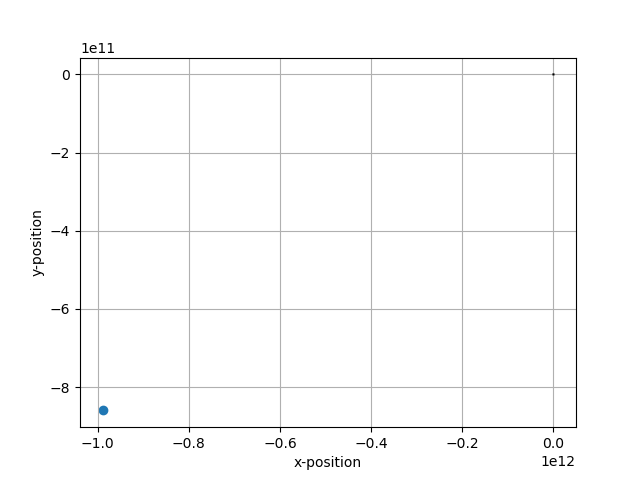
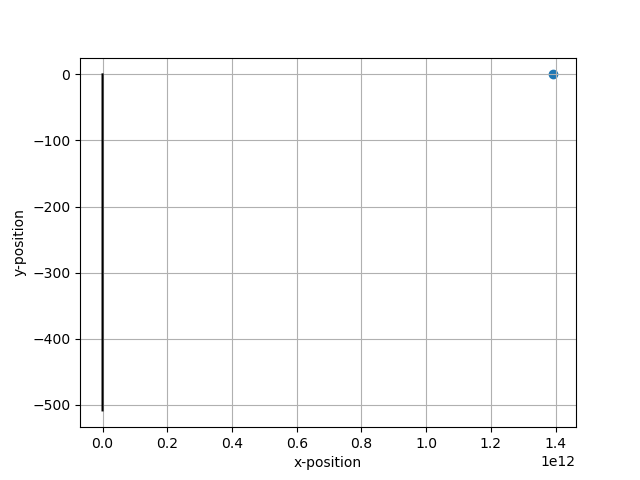
Minor advancements on interplanetary travel

diff --git a/Project/Part 5/Python Files/Part_5_C.py b/Project/Part 5/Python Files/Part_5_C.py
@@ -29,6 +29,8 @@ def find_orbit_inj_velocity(planet_idx, dist):
 def interplanetary_travel(r0, v0, t0, t1_approx, dt, max_dev, dest_planet_idx, dest_planet_orbit, reference_traj, reference_vel, l):
     inter_trav = mission.begin_interplanetary_travel()
     t, r, v = inter_trav.orient()  # Orienting ourselves after launch
+    plt.scatter(r[0], r[1])
+    plt.show()
     distance = mission.measure_distances()[dest_planet_idx]
     dest_planet_mass = system.masses[dest_planet_idx]
 
@@ -42,14 +44,16 @@ def interplanetary_travel(r0, v0, t0, t1_approx, dt, max_dev, dest_planet_idx, d
     print(inter_trav.orient()[2])
 
     # Coasting until we are close enough to planet
-    coast_time = 0.001
+    coast_time = 0.00001
     while distance > l:
         inter_trav.coast(coast_time)
         t_curr, r_curr, v_curr = inter_trav.orient()
-        if abs(reference_traj[t_curr/dt] - r_curr) > max_dev:
-            v_curr_abs = np.lialg.norm(v_curr)
-            heading = np.arccos(v_curr[0]/v_curr_abs)
-            v_req1 = find_velocity_for_trajectory(r_curr, t_curr, t1_approx, dt, heading, 0.001 * np.pi / 180, v_curr_abs, 0.001, dest_planet_orbit, dest_planet_mass, t_curr/dt, t1_approx/dt)
+        if np.linalg.norm(reference_traj[int((t_curr-t0)/dt)] - r_curr) > max_dev:
+            v_curr_abs = np.linalg.norm(v_curr)
+            heading = np.arctan(v_curr[1]/v_curr[0]) + np.pi
+            v_req1 = find_velocity_for_trajectory(r_curr, t_curr, t1_approx, dt, heading, 10 * np.pi / 180, v_curr_abs, 0.001, dest_planet_orbit, dest_planet_mass, int(t_curr/dt), int(t1_approx/dt))
+            print(heading / np.pi * 180)
+            print(v_curr)
             delta_v1 = v_req1-v_curr
             inter_trav.boost(delta_v1)
 
@@ -77,7 +81,7 @@ if __name__ == "__main__":
     launch_planet_idx = 0  # Defining launch and destination planet
     dest_planet_idx = 1
     dest_planet_mass = system.masses[dest_planet_idx]
-    launch_angle = 180
+    launch_angle = 260.483012
 
     with np.load("../../Part 2/Python Code/planet_trajectories.npz") as file:  # Loading Orbits from earlier simulations
         time = file['times']
@@ -86,44 +90,44 @@ if __name__ == "__main__":
     dest_planet_orbit = np.transpose(planet_positions[:, dest_planet_idx, :])  # Creating orbits for the planets
 
 
-    min_dist_planets, time_index00 = find_closest_orbit(launch_planet_orbit, dest_planet_orbit)  # Calculating min distance between planets, best time for launch and estimated time for reaching destination
+    min_dist_planets, time_index0 = find_closest_orbit(launch_planet_orbit, dest_planet_orbit)  # Calculating min distance between planets, best time for launch and estimated time for reaching destination
     dt = time[1]  # Defining time of launch and an approximation when we will be reaching our destination
-    time_index1 = int(time_index00 + 5 / dt)
+    time_index1 = int(time_index0 + (3 / dt))
     t1_approx = time_index1 * dt
-    t00 = time_index00 * dt
+    t0 = time_index0 * dt
 
 
     # Launching spacecraft to find position, velocity and time after the launch + Verifying launch results and orientation
-    r0, v01, t0 = launch_rocket(mission.spacecraft_mass, 392_000, 6_000_000, t_orbit_launch=t00, launch_angle=launch_angle, printing=False, store=True)
-    shortcut.place_spacecraft_on_escape_trajectory(6_000_000, 273.73826154189527, t00, 0, launch_angle, 392_000)
+    # launch_rocket(mission.spacecraft_mass, 392_000, 6_000_000, t_orbit_launch=t0, launch_angle=launch_angle, printing=False, store=True)
+    shortcut.place_spacecraft_on_escape_trajectory(6_000_000, 273.73826154189527, t0, 3_000_000, launch_angle, 392_000)
+    fuel_consumed, t0, r0, v0 = shortcut.get_launch_results()
     mission.verify_launch_result(r0)
-    mission.verify_manual_orientation(r0, v01, 37.01285168461271)
-    fuel_consumed, time_after_launch, pos_after_launch, vel_after_launch = shortcut.get_launch_results()
+    mission.verify_manual_orientation(r0, v0, 37.01285168461271)
+    print(f"EXIT VELOCITY: {np.linalg.norm(v0)}, {v0}")
 
-    # Determining time index after launch
-    time_index0 = int(t0/dt)
 
     # Plotting orbits of planets and trajectory of spacecraft during simulated travel to destination
-    plt.plot(launch_planet_orbit[time_index0:(time_index1 - 1), 0],
-             launch_planet_orbit[time_index0:(time_index1 - 1), 1])
-    plt.scatter(launch_planet_orbit[time_index0, 0], launch_planet_orbit[time_index0, 1], c="r")
-    plt.scatter(launch_planet_orbit[time_index1, 0], launch_planet_orbit[time_index1, 1], c="k")
-    plt.plot(dest_planet_orbit[time_index0:(time_index1 - 1), 0], dest_planet_orbit[time_index0:(time_index1 - 1), 1])
-    plt.scatter(dest_planet_orbit[time_index0, 0], dest_planet_orbit[time_index0, 1], c="r")
-    plt.scatter(dest_planet_orbit[time_index1, 0], dest_planet_orbit[time_index1, 1], c="k")
+    # plt.plot(launch_planet_orbit[time_index0:(time_index1 - 1), 0], launch_planet_orbit[time_index0:(time_index1 - 1), 1])
+    plt.plot(launch_planet_orbit[time_index0:(time_index0 + 100), 0], launch_planet_orbit[time_index0:(time_index0 + 100), 1])
+    # plt.scatter(launch_planet_orbit[time_index0, 0], launch_planet_orbit[time_index0, 1], c="r")
+    # plt.scatter(launch_planet_orbit[time_index1, 0], launch_planet_orbit[time_index1, 1], c="k")
+    # plt.plot(dest_planet_orbit[time_index0:(time_index1 - 1), 0], dest_planet_orbit[time_index0:(time_index1 - 1), 1])
+    # plt.plot(dest_planet_orbit[time_index0:(time_index0 + 5000), 0], dest_planet_orbit[time_index0:(time_index0 + 5000), 1])
+    # plt.scatter(dest_planet_orbit[time_index0, 0], dest_planet_orbit[time_index0, 1], c="r")
+    # plt.scatter(dest_planet_orbit[time_index1, 0], dest_planet_orbit[time_index1, 1], c="k")
 
-    reference_traj, reference_vel = find_velocity_for_trajectory(r0, t0, t1_approx, dt, (222.774515 * np.pi / 180), (0.00001 * np.pi / 180), 6.87, 0.000001, dest_planet_orbit, dest_planet_mass, time_index0, time_index1)
+    reference_traj, reference_vel = find_velocity_for_trajectory(r0, t0, t1_approx, dt, (launch_angle * np.pi / 180), (0.00001 * np.pi / 180), np.linalg.norm(v0), 0.000001, dest_planet_orbit, dest_planet_mass, time_index0, time_index1)
 
     plt.axis("equal")
-    plt.show()
+    # plt.show()
 
     # Defining some variables for interplanetary travel
-    max_deviation = 0.1
+    max_deviation = 0.0001
     dest_planet_idx = 1
     l = 1
 
     # Starting interplanetary travel
-    interplanetary_travel(r0, v01, t0, t1_approx, dt, max_deviation, dest_planet_idx, dest_planet_orbit, reference_traj, reference_vel, l)
+    interplanetary_travel(r0, v0, t0, t1_approx, dt, max_deviation, dest_planet_idx, dest_planet_orbit, reference_traj, reference_vel, l)
 
     BB = ti.time()
     print(BB-AA)

diff --git a/Project/Part 5/Python Files/Part_5_B_func.py b/Project/Part 5/Python Files/Part_5_B_func.py
@@ -40,7 +40,7 @@ def find_closest_orbit(planet_trajectory1, planet_trajectory2):
     for i in range(1, len(dist_arr)):
         if np.linalg.norm(dist_arr[i]) < least_value:
             least_value = np.linalg.norm(dist_arr[i])
-            idx = i
+            idx = i + 5000
     return dist_arr[idx], idx
 
 
@@ -70,6 +70,7 @@ def check_close_enough(sc_traj, planet_traj, planet_mass, time_index0, time_inde
     print("Distance")
     print(min_distance, close_enough)
     plt.plot(sc_traj[:10000, 0], sc_traj[:10000, 1], c="k")
+    plt.scatter(sc_traj[index-time_index0, 0], sc_traj[index-time_index0, 1])
     plt.scatter(planet_traj[index, 0], planet_traj[index, 1])
 
     return close_enough, index, min_distance
@@ -81,8 +82,8 @@ def find_velocity_for_trajectory(r0, t0, t1, dt, median_angle, angle_span, media
     # angle_span = 0.001 * np.pi / 180
     # median_velocity = 5.12745  # Absolute value!
     # velocity_span = 0.0001
-    angles = np.linspace(median_angle - angle_span, median_angle + angle_span, 5)  # Creating arrays with different angles and velocities to iterate over and test
-    velocities = np.linspace(median_velocity - velocity_span, median_velocity + velocity_span, 3)
+    angles = np.linspace(median_angle - angle_span, median_angle + angle_span, 11)  # Creating arrays with different angles and velocities to iterate over and test
+    velocities = np.linspace(median_velocity - velocity_span, median_velocity + velocity_span, 1)
 
     good_vel_ang = []
 
@@ -129,30 +130,37 @@ if __name__ == "__main__":
     launch_planet_orbit = np.transpose(planet_positions[:, launch_planet_idx, :])
     dest_planet_orbit = np.transpose(planet_positions[:, dest_planet_idx, :])  # Creating orbits for the planets
 
-    median_angle = 222.774515 * np.pi / 180  # Setting Middle, max and min values for angles and velocities
-    angle_span = 0.00001 * np.pi / 180
-    median_velocity = 6.87  # Absolute value!
-    velocity_span = 0.001
-    launch_angle = 180
-
-    min_dist_planets, time_index00 = find_closest_orbit(launch_planet_orbit, dest_planet_orbit)  # Calculating min distance between planets, best time for launch and estimated time for reaching destination
+    min_dist_planets, time_index0 = find_closest_orbit(launch_planet_orbit, dest_planet_orbit)  # Calculating min distance between planets, best time for launch and estimated time for reaching destination
     dt = time[1]
-    time_index1 = int(time_index00 + 5 / dt)
-    t00 = time_index00 * dt
-
-    r0, v01, total_time = launch_rocket(mission.spacecraft_mass, 392_000, 6_000_000, t_orbit_launch=t00, launch_angle=launch_angle, printing=False, store=False)
-
-    time_index0 = int(total_time/dt)
+    t0 = time_index0 * dt
+    time_index1 = int(time_index0 + 3 / dt)
     t1 = time_index1 * dt
 
-    plt.plot(launch_planet_orbit[time_index0:(time_index1 - 1), 0], launch_planet_orbit[time_index0:(time_index1 - 1), 1])
-    plt.scatter(launch_planet_orbit[time_index0, 0], launch_planet_orbit[time_index0, 1], c="r")
-    plt.scatter(launch_planet_orbit[time_index1, 0], launch_planet_orbit[time_index1, 1], c="k")
-    plt.plot(dest_planet_orbit[time_index0:(time_index1 - 1), 0], dest_planet_orbit[time_index0:(time_index1 - 1), 1])
-    plt.scatter(dest_planet_orbit[time_index0, 0], dest_planet_orbit[time_index0, 1], c="r")
-    plt.scatter(dest_planet_orbit[time_index1, 0], dest_planet_orbit[time_index1, 1], c="k")
+    launch_angle = 280
+    r0, v0, t0 = launch_rocket(mission.spacecraft_mass, 392_000, 6_000_000, t_orbit_launch=t0, launch_angle=launch_angle, printing=False, store=False)
 
-    find_velocity_for_trajectory(r0, total_time, t1, dt, median_angle, angle_span, median_velocity, velocity_span, dest_planet_orbit, dest_planet_mass, time_index0, time_index1)
+    exit_vel_angle = np.arctan(v0[1]/v0[0])
+
+    median_angle = exit_vel_angle * np.pi / 180  # Setting Middle, max and min values for angles and velocities
+    angle_span = 1 * np.pi / 180
+    # median_velocity = 7.3  # Absolute value!
+    median_velocity = np.linalg.norm(v0)
+    velocity_span = 1e-25
+    print(v0)
+    print((exit_vel_angle/np.pi*180) + 360)
+
+
+
+    # plt.plot(launch_planet_orbit[time_index0:(time_index1 - 1), 0], launch_planet_orbit[time_index0:(time_index1 - 1), 1])
+    plt.plot(launch_planet_orbit[time_index0:(time_index0 + 5_000), 0], launch_planet_orbit[time_index0:(time_index0 + 5_000), 1])
+    plt.scatter(launch_planet_orbit[time_index0, 0], launch_planet_orbit[time_index0, 1], c="r")
+    # plt.scatter(launch_planet_orbit[time_index1, 0], launch_planet_orbit[time_index1, 1], c="k")
+    # plt.plot(dest_planet_orbit[time_index0:(time_index1 - 1), 0], dest_planet_orbit[time_index0:(time_index1 - 1), 1])
+    plt.plot(dest_planet_orbit[(time_index0 + 5000):(time_index0 + 10000), 0], dest_planet_orbit[(time_index0 + 5000):(time_index0 + 10000), 1])
+    # plt.scatter(dest_planet_orbit[time_index0, 0], dest_planet_orbit[time_index0, 1], c="r")
+    # plt.scatter(dest_planet_orbit[time_index1, 0], dest_planet_orbit[time_index1, 1], c="k")
+
+    find_velocity_for_trajectory(r0, t0, t1, dt, median_angle, angle_span, median_velocity, velocity_span, dest_planet_orbit, dest_planet_mass, time_index0, time_index1)
     plt.axis("equal")
     plt.show()
     BB = ti.time()

diff --git a/Project/Part 1/Python Code/Rocket_launch.py b/Project/Part 1/Python Code/Rocket_launch.py
@@ -140,8 +140,9 @@ def launch_rocket(dry_mass, fuel_mass, thrust_force, estimated_time=1000, dt=0.0
     if printing:
         if status == 0:
             print("SPACE!!!")
-            # print(f"Final position: x: {int(exit_coords[0])} m, y: {int(exit_coords[1])} m")
-            # print(f"Final velocity: v_x: {int(exit_vel[0])} m/s, v_y: {int(exit_vel[1])} m/s")
+            print(f"Final position: x: {int(exit_coords[0])} m, y: {int(exit_coords[1])} m")
+            print(f"Final velocity: v_x: {int(exit_vel[0])} m/s, v_y: {int(exit_vel[1])} m/s")
+            print(f"Distance: {np.linalg.norm(exit_coords)}")
             print(f"Final mass of spacecraft: {wet_mass:.2f} Kg")
             print(f"Remaining fuel: {wet_mass_i - dry_mass} Kg")
             print(f"Remaining Burn Time: {(wet_mass_i - dry_mass) / (fuel_consumption * 60):.2f} min")
@@ -169,11 +170,12 @@ def launch_rocket(dry_mass, fuel_mass, thrust_force, estimated_time=1000, dt=0.0
         print(f"Launch Results verified: {mission.launch_result_verified}")
     """
 
-    height_above_suface = 0
+    height_above_suface = 3_000_000 # 12_248_227 - 8_653_612 = 3_594_615 Height from our own launch simulation - the radius of the planet
 
     pos_after_launch, vel_after_launch, time, fuel_consumed = launch_rocket_shortcut(thrust_force, fuel_consumption, t_orbit_launch, height_above_suface, launch_angle, fuel_mass)
-
+    
     return pos_after_launch, vel_after_launch, time
+
 
 
 def verify_store_launch(launch_position, final_position, thrust_force, fuel_mass, fuel_consumption, t_orbit_launch1, estimated_time, dt):
@@ -198,10 +200,10 @@ if __name__ == "__main__":
     thrust_per_box = 5.290110991665214e-11  # 8.113886899686883e-11
     mass_flow_rate_per_box = 2.413509643703512e-15
     estimated_time = 1000
-    launch_time = 200
+    launch_time = 0
     print(system.radii[0])
     print(utils.m_to_AU(49_587_900))
-    launch_angle = 250
+    launch_angle = 180
     print(launch_rocket(dry_mass, fuel_mass, thrust_force, estimated_time, dt, N, thrust_per_box, mass_flow_rate_per_box, planet_idx, launch_time, launch_angle=launch_angle, printing=True, store=True))
 
     B = time.time()

diff --git a/Project/Part 1/Python Code/Test.py b/Project/Part 1/Python Code/Test.py
@@ -6,4 +6,6 @@ a = np.array([1, 2, 3, 4])
 b = np.array([1, 1, 2, 2])
 print(a*b)
 
-print(utils.AU_to_m(1.4211815223821532e-08))
+print(utils.AU_to_m(1.010132693347968e-05))
+print(12_248_227 - 8_653_612)
+print(np.linalg.norm([-1.10860419, -6.6127185]))
